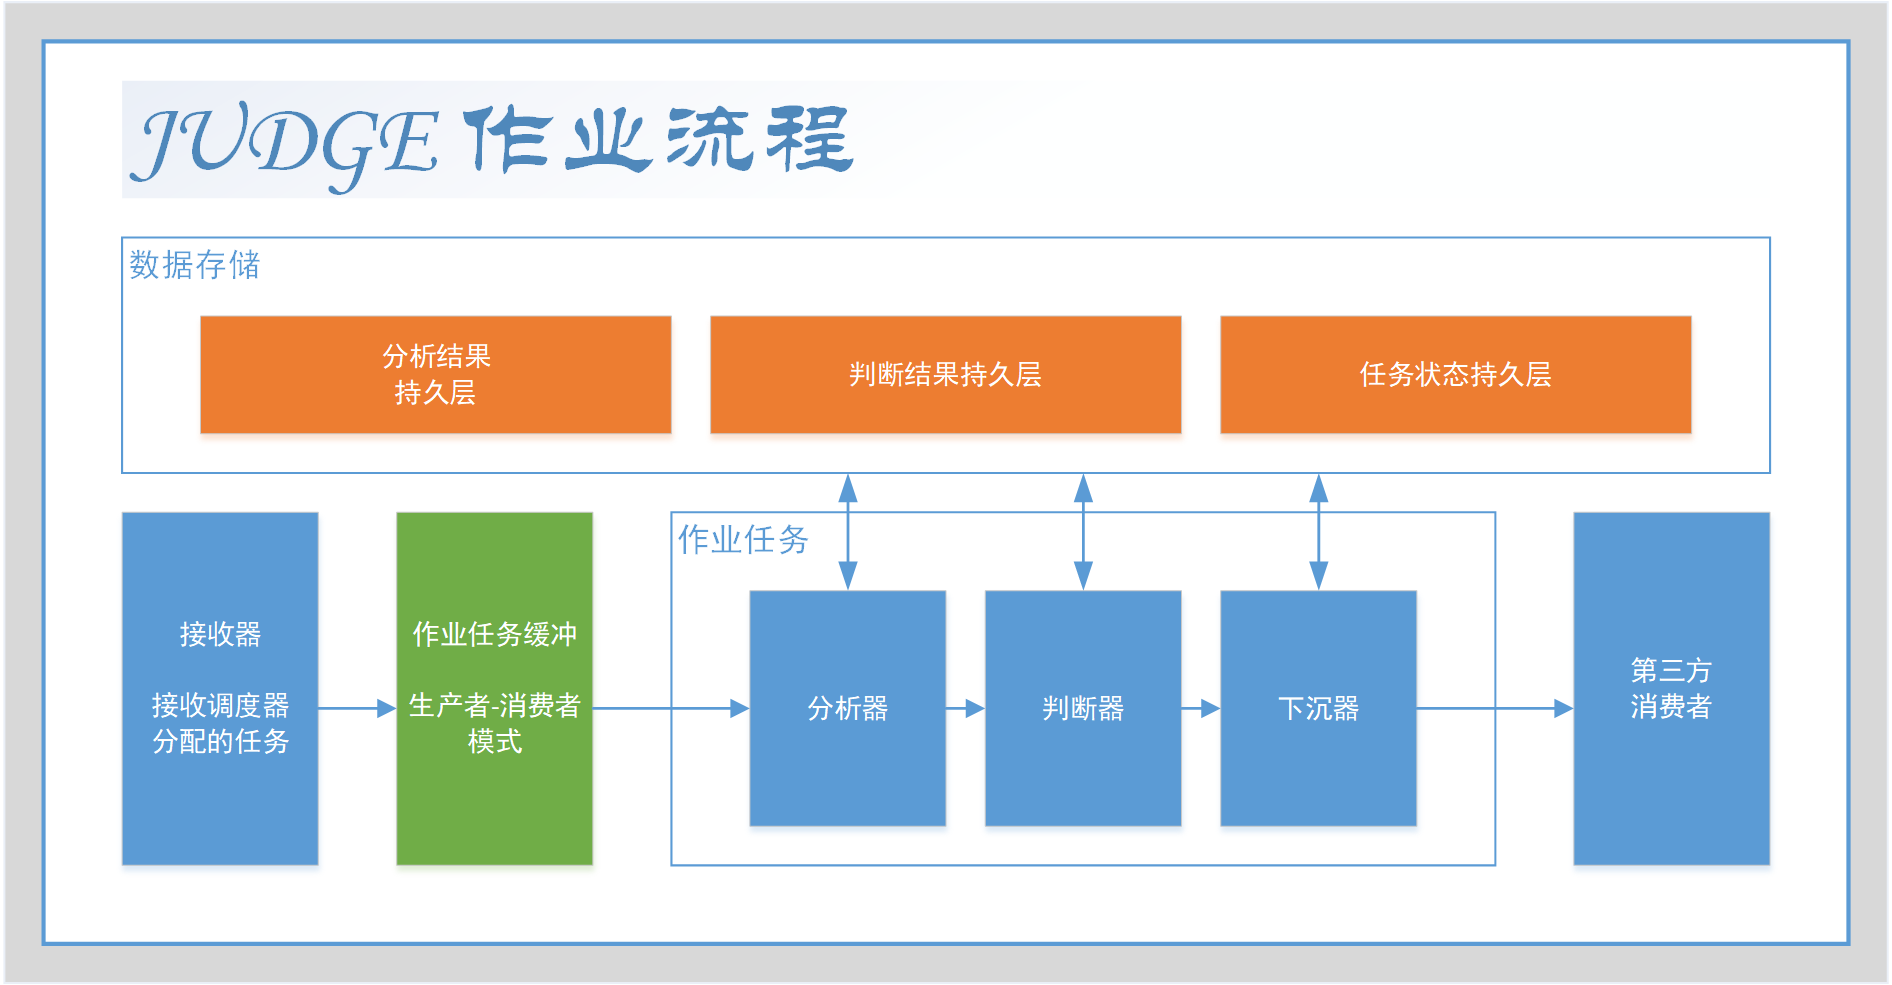
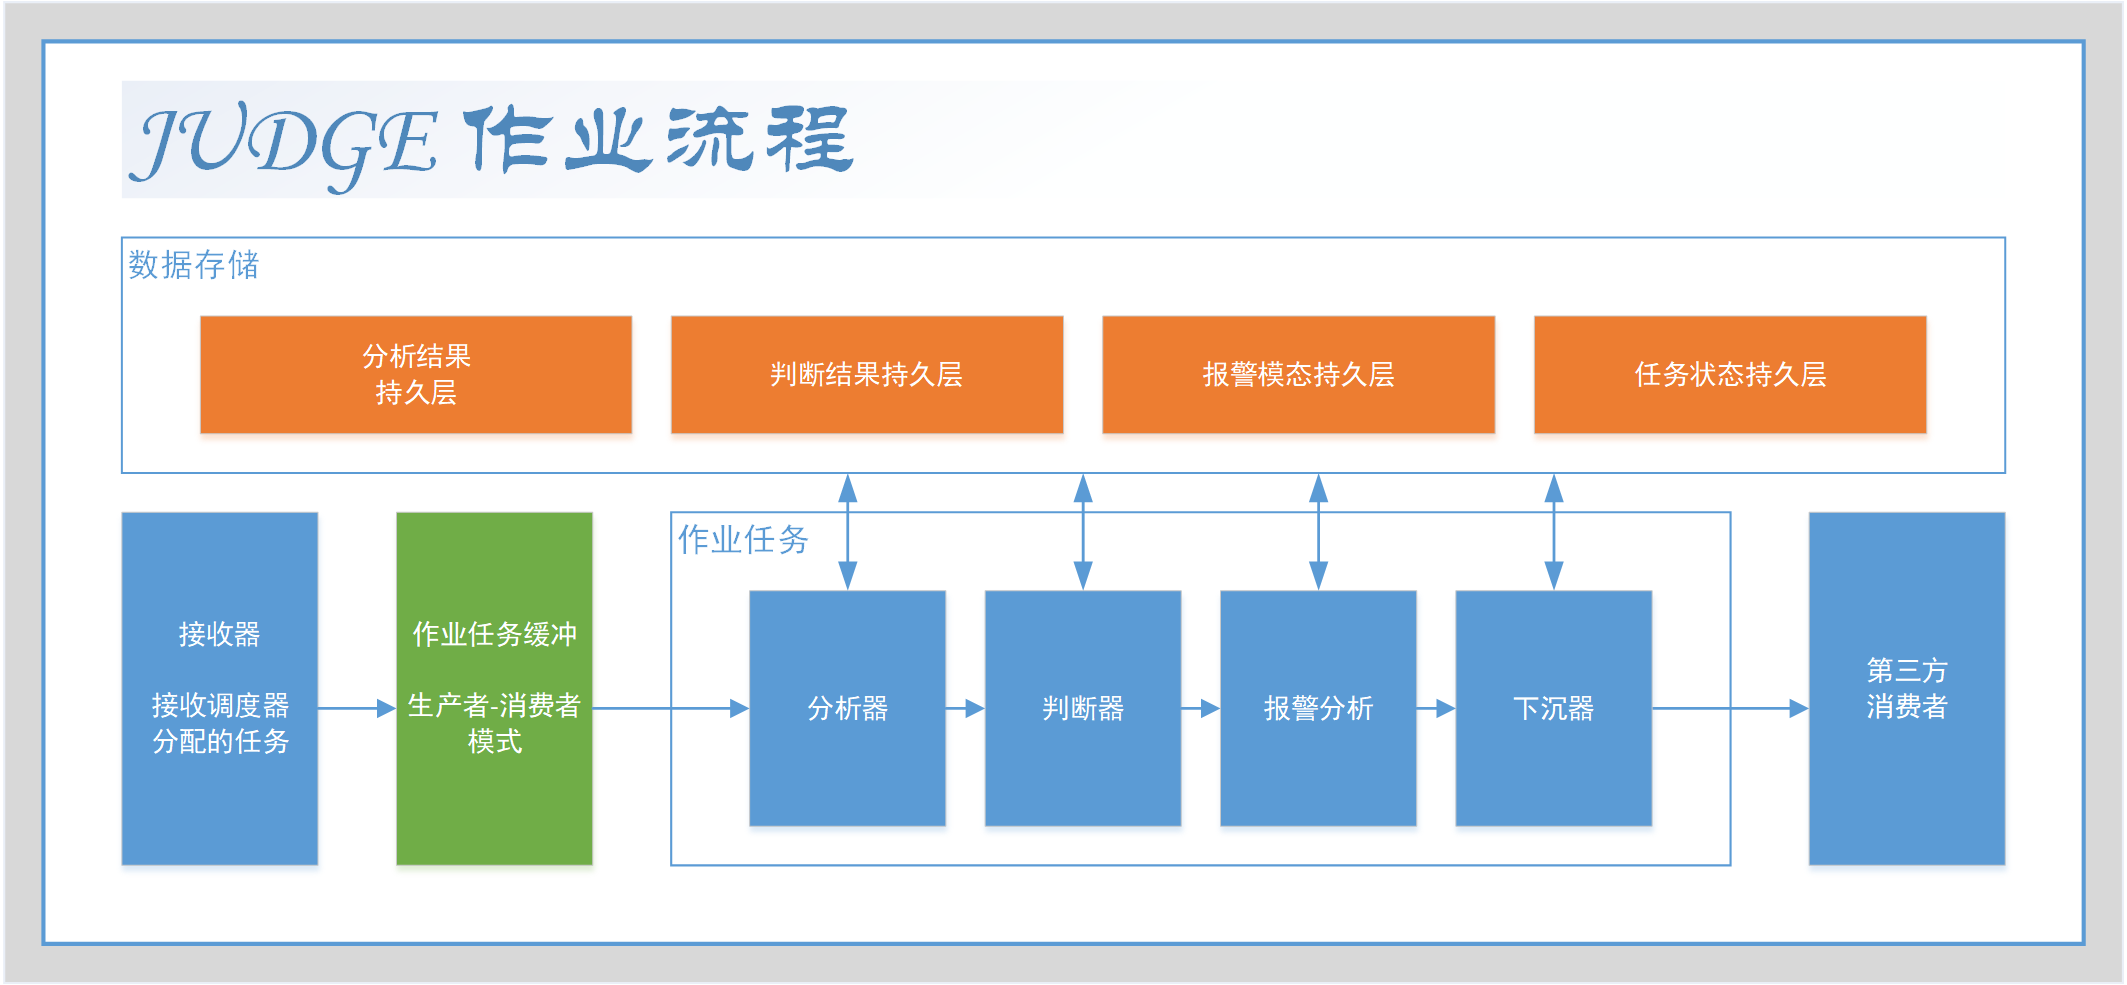
Wiki 更新
docs/wiki/zh-CN/CoreConcepts.md

diff --git a/CHANGELOG.md b/CHANGELOG.md
@@ -4,6 +4,9 @@
 
 ### 功能构建
 
+- Wiki 更新。
+  - docs/wiki/zh-CN/CoreConcepts.md。
+
 - 推送机制新增系统事件。
   - com.dwarfeng.judge.stack.handler.PushHandler.alarmAppeared。
   - com.dwarfeng.judge.stack.handler.PushHandler.alarmLevelIncreased。
